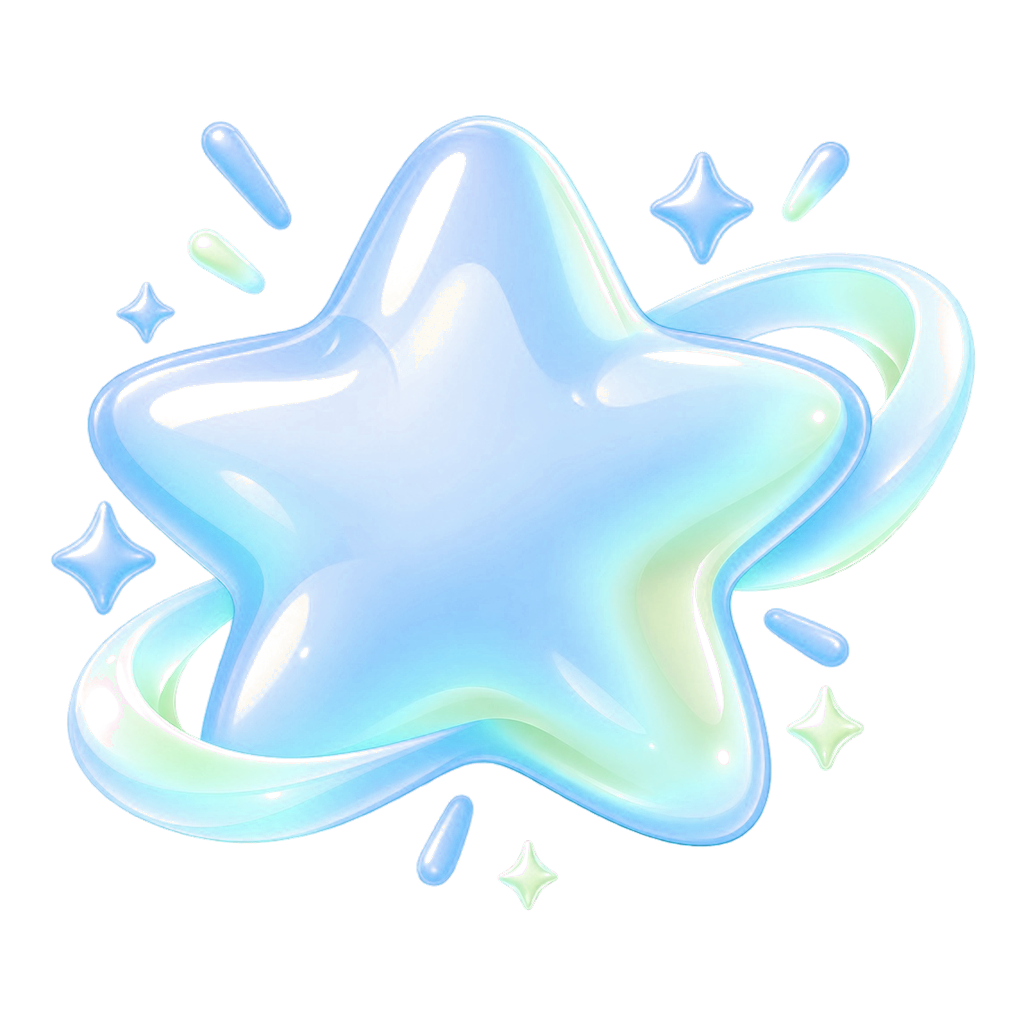
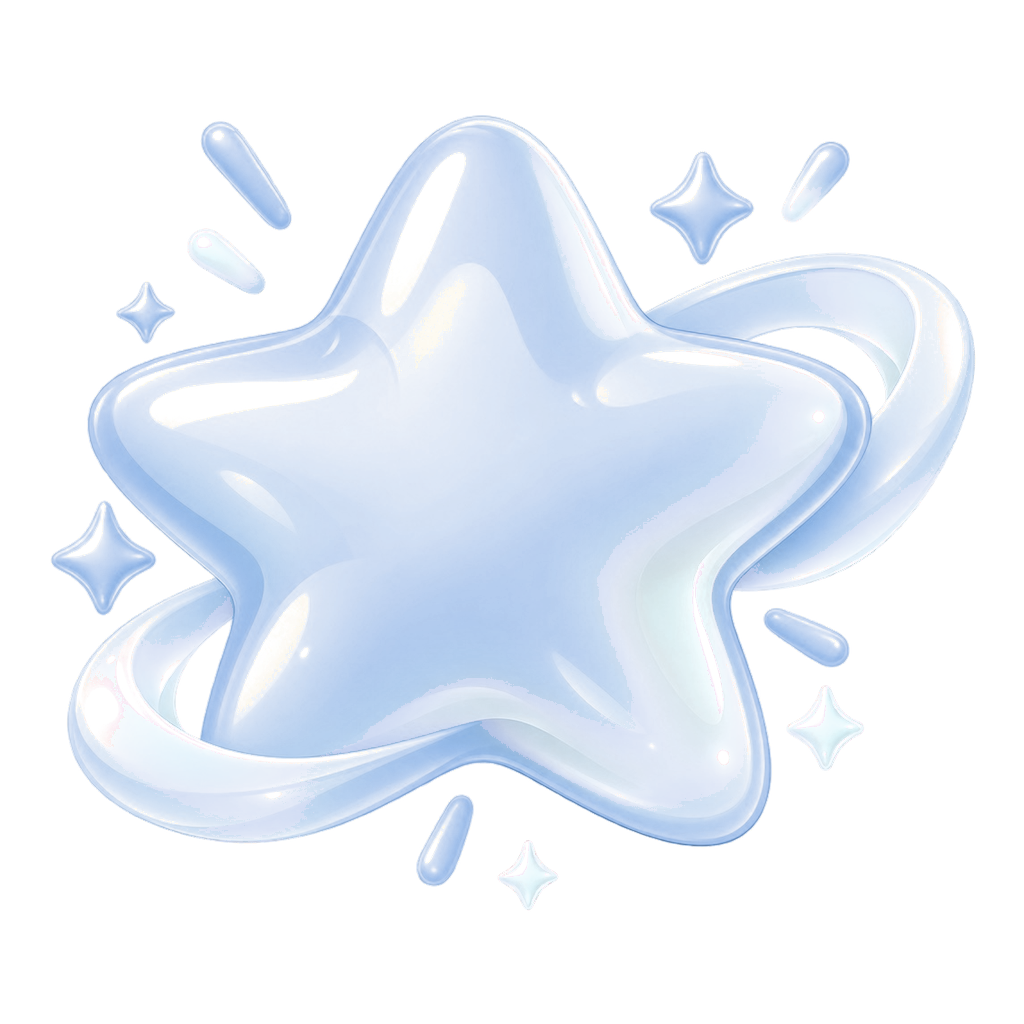
Add files via upload

diff --git a/homologacao/rc196-sat-owner-helper.js b/homologacao/rc196-sat-owner-helper.js
@@ -1,8 +1,8 @@
 /* BERTH.A RC196 — Owner 6 medalhas + Helper estrutural
    - mantém avatares aprovados
-   - checkboxes do Helper igual ao Owner
-   - personalização de cores dos reconhecimentos mais visível
-   - Sala de Troféus/Owner unificada na mesma família visual do Helper */
+   - brisas do Helper suavizadas (menos verde, mais legíveis)
+   - checkbox do Helper alinhado ao padrão suave do Owner
+   - cache-bust dos assets para refletir a troca imediata no GitHub Pages */
 (function(){
   const RECOG_KEY='bertha.recognition.presets.v19';
   const LEGACY_KEYS=['bertha.recognition.presets.v18','bertha.recognition.presets.v17','bertha.recognition.presets.v16','bertha.recognition.presets.v15','bertha.recognition.presets.v14','bertha.recognition.presets.v13','bertha.recognition.presets.v12','bertha.recognition.presets.v10'];
@@ -69,7 +69,7 @@
 
   function tryJSON(k){try{return JSON.parse(window.berthaHmlStorage.getItem(k)||'null')}catch(e){return null}}
   function stripExt(v){return String(v||'').replace(/\.(png|jpg|jpeg|svg)$/i,'')}
-  function assetFile(name){ return './'+stripExt(name)+'.png'; }
+  function assetFile(name){ return './'+stripExt(name)+'.png?v=198'; }
   function normalizeId(raw,i){
     const fallback=(DEFAULTS[i]||DEFAULTS[0]).id;
     const id=String(raw?.id||fallback);
@@ -310,7 +310,7 @@
     });
 
     const bubble=document.querySelector('.r148-build');
-    if(bubble) bubble.textContent='HML · RC196';
+    if(bubble) bubble.textContent='HML · RC198';
   }
 
   function enhanceSatModal(){
@@ -377,7 +377,7 @@
     .r147-pane[data-r147pane="helpers"] [data-r147-preset] .r147-config-grid{display:grid!important;grid-template-columns:1fr 1.6fr!important;gap:10px!important}
     .r147-pane[data-r147pane="helpers"] [data-r147-preset] .r147-config-grid label{display:grid!important;gap:5px!important}
     .r147-pane[data-r147pane="helpers"] [data-r147-preset] .r147-config-grid label[style*="span 2"]{grid-column:span 1!important}
-    .rc192-helper-active{width:56px!important}.rc192-helper-active .rc178-check{width:36px!important;height:36px!important;border-radius:12px!important}.rc192-helper-active input:checked + .rc178-check:after{left:12px!important;top:7px!important;width:8px!important;height:15px!important}.rc192-helper-active em{font-size:10.5px!important}
+    .rc192-helper-active{width:56px!important}.rc192-helper-active .rc178-check{width:36px!important;height:36px!important;border-radius:12px!important}.rc192-helper-active input:checked + .rc178-check{border-color:transparent!important;background:linear-gradient(145deg,#f1d3de,#e2cfe7 58%,#d9e7f2)!important;box-shadow:inset 0 1px 0 rgba(255,255,255,.65),0 6px 14px rgba(177,153,175,.16)!important}.rc192-helper-active input:checked + .rc178-check:after{left:12px!important;top:7px!important;width:8px!important;height:15px!important}.rc192-helper-active em{font-size:10.5px!important}
 
     .rc192-variant-picker{display:grid;gap:8px;padding:12px 13px;border-radius:18px;background:linear-gradient(145deg,rgba(255,251,246,.90),rgba(247,245,249,.88));border:1px solid rgba(128,111,132,.08)}
     .rc192-variant-head{display:grid;gap:2px}

diff --git a/homologacao/index.html b/homologacao/index.html
@@ -618,7 +618,6 @@ body.bertha-hml::before{content:"HOMOLOGAÇÃO";position:fixed;z-index:99999;top
 <script src="ui-polish-v164.js?v=169a"></script>
 <script src="ui-assets-v188.js?v=188-helper"></script>
 <script src="rc196-sat-owner-helper.js?v=196-owner-helper-fix"></script>
-<script src="rc197-kids-neblina.js?v=197-kids-neblina"></script>
 <script src="routing-fix-v188.js?v=188-helper"></script>
 </body>
 </html>
